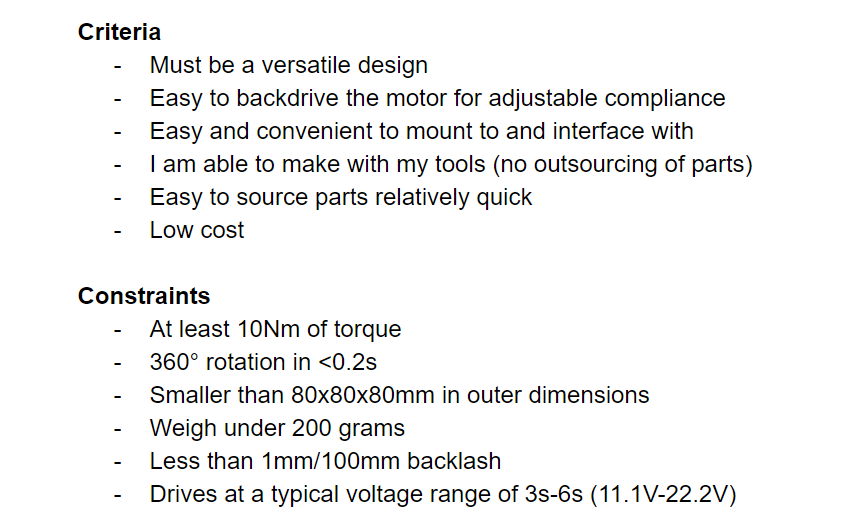
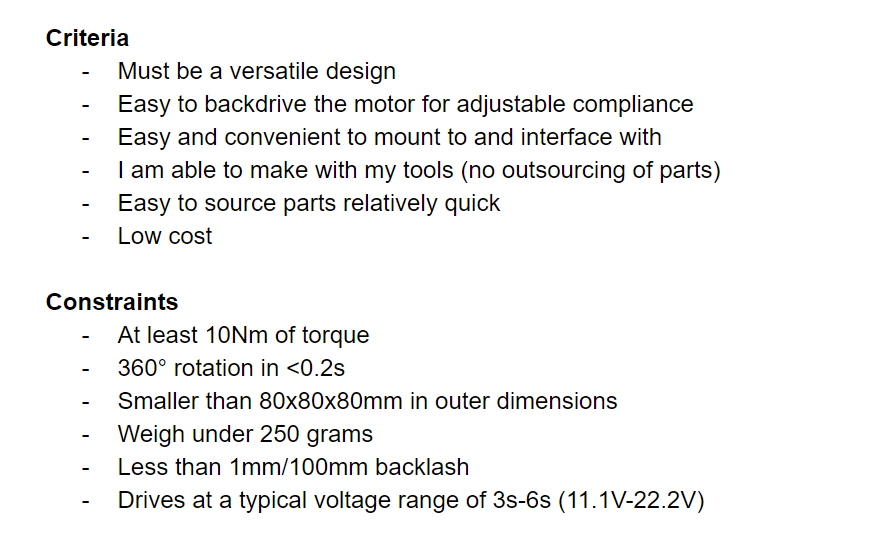
Updated

diff --git a/projects.html b/projects.html
@@ -173,6 +173,9 @@
 								<div class="image-box">
 									<img class="center-picture forty-per" src="./assets/Final Cycloidal Test.gif">
 								</div>
+								<div class="text-box">
+									<p>To verify that the actuator meets the criteria and constraints laid out in the beginning I ran a variety of tests and measurements as well as qualitative observations. I believe the design is very versatile, having a small and cube like form factor, with mounting features on the front and back. The actuator is also very easy to backdrive, and although I didn’t have a quantitative measurement of it, it is more than enough for my needs. The parts were all made in house, sourced relatively quickly, and the actuator cost under $60. The first quantitative test was making sure it met the torque requirements. To do this I used a 1m lever arm and mounted it to the actuator, I then continuously added water to a bucket until it reached 10Nm (~1L of water). Using the same test setup without the mass, I found the backlash to be much lower than 1mm. The speed can be verified using slow motion, and counting the frames it takes to do one rotation the rpm can be found to be ~290. Despite not meeting the constraint it is still very close, within 4% and good enough for my needs. I believe it is because of friction in the system that was hard to account for, and I should’ve added more of a safety factor when choosing the reduction. Finally the actuator came in at 57x54x54mm and it weighs in at 236g, meeting the constraints.</p>
+								</div>
 							</div>
 						</div>
 					</a>
